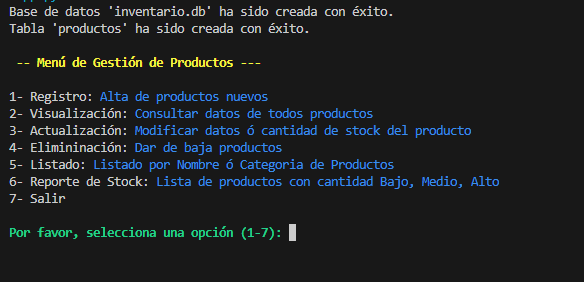
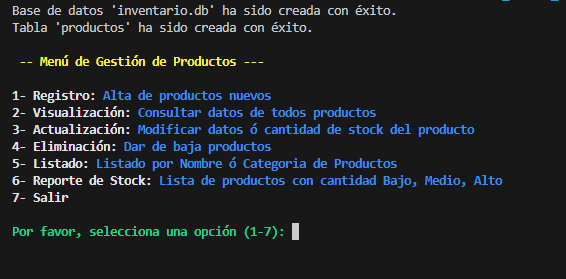
Se corrige error de transcripción en el menu principal

diff --git a/src/modulos/funciones.py b/src/modulos/funciones.py
@@ -70,7 +70,7 @@ def mostrar_menu():
     print(Fore.WHITE +  Style.BRIGHT + "1- Registro: " + Fore.LIGHTBLUE_EX + "Alta de productos nuevos" + Style.RESET_ALL)
     print(Fore.WHITE +  Style.BRIGHT + "2- Visualización: " + Fore.LIGHTBLUE_EX + "Consultar datos de todos productos" + Style.RESET_ALL)
     print(Fore.WHITE +  Style.BRIGHT + "3- Actualización: " + Fore.LIGHTBLUE_EX + "Modificar datos ó cantidad de stock del producto" + Style.RESET_ALL)
-    print(Fore.WHITE +  Style.BRIGHT + "4- Elimininación: " + Fore.LIGHTBLUE_EX + "Dar de baja productos" + Style.RESET_ALL)
+    print(Fore.WHITE +  Style.BRIGHT + "4- Eliminación: " + Fore.LIGHTBLUE_EX + "Dar de baja productos" + Style.RESET_ALL)
     print(Fore.WHITE +  Style.BRIGHT + "5- Listado: " + Fore.LIGHTBLUE_EX + "Listado por Nombre ó Categoria de Productos" + Style.RESET_ALL)
     print(Fore.WHITE +  Style.BRIGHT + "6- Reporte de Stock: " + Fore.LIGHTBLUE_EX + "Lista de productos con cantidad Bajo, Medio, Alto" + Style.RESET_ALL)
     print(Fore.WHITE +  Style.BRIGHT + "7- Salir\n")
